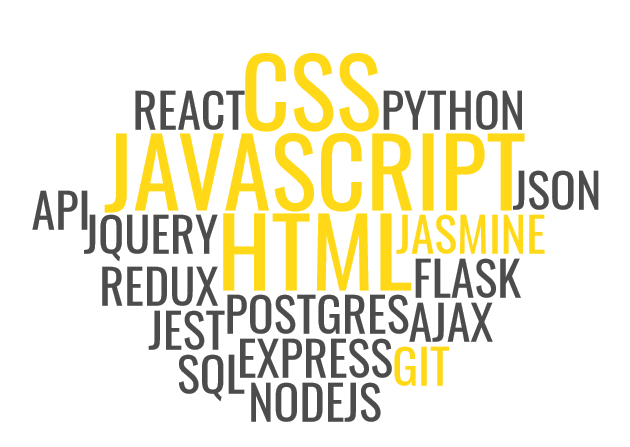
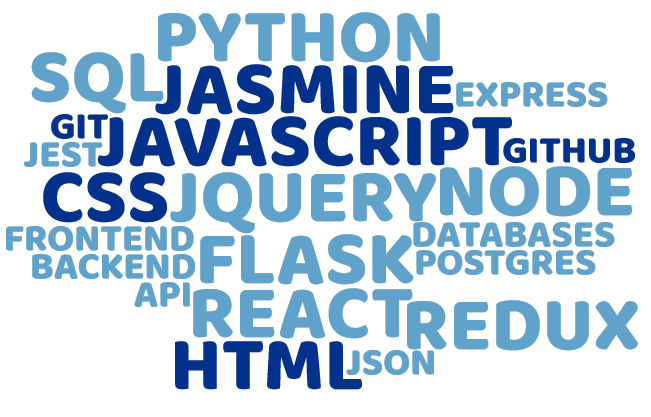
changes on skills

diff --git a/index.html b/index.html
@@ -107,91 +107,10 @@ display sideBar
                 <div id='slide3' class="slideWrap">
                   
 
-
-                    <div id='skillSet'>
-
-                        <span id='skill-one'  class='skill-big learned'>
-                        <span class="tooltiptext">
-                            <ul>
-                                <li>Working with HTML Documents</li>
-                                <li>Creating Lists</li>
-                                <li>Linking</li>
-                                <li>Displaying Data</li>
-                                <li>Planning for Accessibility</li>
-                            </ul>
-                        </span>
-                            HTML</span>
-
-                        <span id='skill-six'  class='skill-small'>REACT</span>
-
-                        <span id='skill-two'  class='skill-big learned'>
-                            <span class="tooltiptext">
-                                <ul>
-                                    <li>Modifying by element/id/class</li>
-                                    <li>Hover attributes</li>
-                                    <li>Element positioning</li>
-                                    <li>Responsive elements</li>
-                                    <li>Planning for Accessibility</li>
-                                </ul>
-                            
-                            
-                            </span>
-                            CSS</span>
-
-                        <span id='skill-five' class='skill-big learned'>
-                                <span class="tooltiptext">
-                                    <ul>
-                                        <li>Testing Tools</li>
-                                        <li>Matchers</li>
-                                        <li>Cleanup</li>
-                                        <li>Best Practices</li>
-                                        
-                                    </ul>
-                                
-                                </span>
-                            JASMINE</span>  
-                        
-                        <span id='skill-seven'  class='skill-small'>PYTHON</span>
-                        <span id='skill-nine'  class='skill-small'>SQL</span>
-
-                        <span id='skill-three'  class='skill-big learned'>
-                            <span class="tooltiptext">
-                                <ul>
-                                    <li>Debugging</li>
-                                    <li>Timers</li>
-                                    <li>DOM Manipulation</li>
-                                    <li>Advanced Array Methods</li>
-                                    <li>Object-Oriented Programming</li>
-                                </ul>
-                            
-                            
-                            </span>
-                            JAVASCRIPT</span>
-                        
-                        <span id='skill-ten'  class='skill-small'>NODEJS</span>
-
-                        <span id='skill-eight'  class='skill-small'>JQUERY</span>   
-
-                        <span id='skill-four' class='skill-big learned'>
-                            <span class="tooltiptext">
-                                <ul>
-                                    <li>Fundamentals</li>
-                                    <li>Branching and Merging</li>
-                                    <li>GitHub</li>
-                                </ul>
-                            
-                            </span>
-                            GIT</span>
-
-                                             
-                        <span id='skill-eleven'  class='skill-small'>FLASK</span>
-                        
-                        
-                        <!-- <div id='textSkill'>TOPICS COVERED UP TO NOW<p>HOVER TO CHECK</p></div> -->
-                       
-                       
-                    </div>
+                <img id='skills' src='img/skills.png'>
+                <img id='subtitle' src='img/subtitle.png'>
                    
+                
 
                     
 

diff --git a/common.css b/common.css
@@ -198,91 +198,16 @@ pre {
 }
 /* ----------------------------SLIDES ( SLIDE 3 )----------------------------------- */
 
-#textSkill {
-	font-family: 'Inconsolata', monospace;
-	font-size: 30px;
+#skills {
+	width: 100%;
+	height: 100%;
 }
 
-.skill-big {
-	font-family: 'Inconsolata', monospace;
-
-	font-size: 115px;
-	cursor: pointer;
-}
-
-.skill-small {
-	font-family: 'Inconsolata', monospace;
-
-	font-size: 80px;
-}
-
-.tooltiptext {
-	font-size: 1vw;
-	visibility: hidden;
-	width: 20vw;
-	background-color: black;
-	color: #fff;
-	text-align: left;
-	border-radius: 6px;
+#subtitle {
 	position: absolute;
-	z-index: 1;
-}
-
-#skillSet {
-	min-width: 750px;
-}
-
-#skill-one {
-	left: 25vw;
-	top: 24vh;
-}
-
-#skill-one:hover .tooltiptext {
-	visibility: visible;
-}
-#skill-two {
-	top: 14vh;
-	left: 23vw;
-}
-
-#skill-two:hover .tooltiptext {
-	visibility: visible;
-}
-
-#skill-three:hover .tooltiptext {
-	visibility: visible;
-}
-
-#skill-four:hover .tooltiptext {
-	visibility: visible;
-}
-
-#skill-five:hover .tooltiptext {
-	visibility: visible;
-}
-
-#skill-five {
-	position: relative;
-	top: 3vh;
-}
-
-#skill-seven {
-	position: relative;
-	left: 6vw;
-}
-
-#skill-eight {
-	position: relative;
-	top: -7vh;
-}
-
-#skill-nine {
-	position: relative;
-	top: -7vh;
-}
-
-.learned:hover {
-	color: orangered;
+	bottom: 0px;
+	width: 10%;
+	margin: 0 auto;
 }
 
 /* ----------------------------SLIDES ( SLIDE 4 )----------------------------------- */
